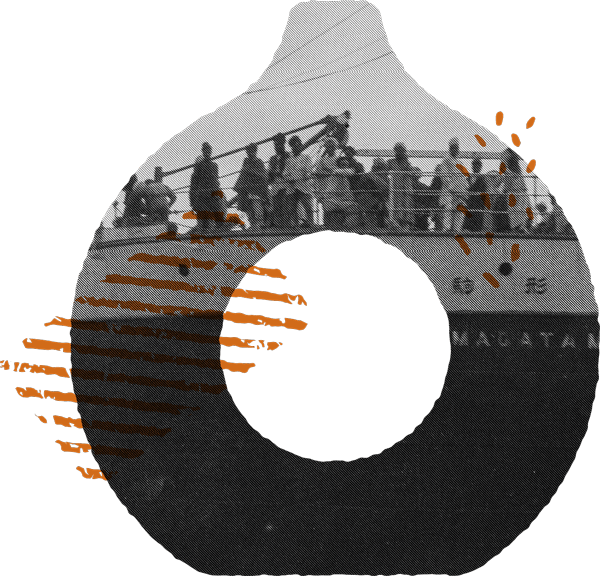
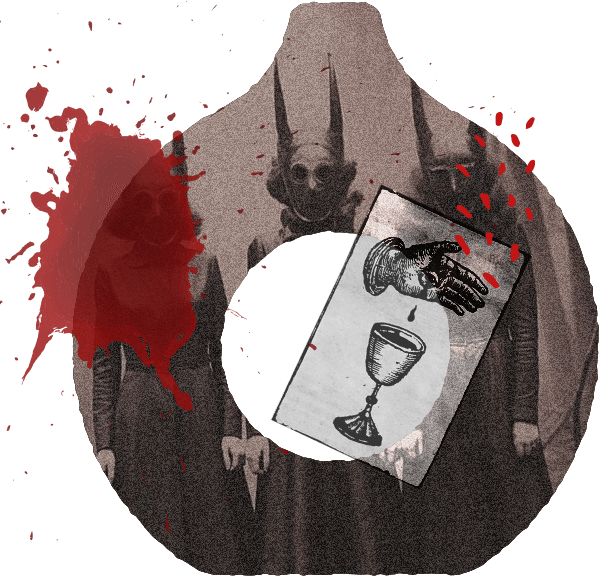
hotfix: update assets

diff --git a/tailwind.config.js b/tailwind.config.js
@@ -34,7 +34,7 @@ module.exports = {
         }
       },
       backgroundImage: {
-        modal: "linear-gradient(rgba(0, 0, 0, 0.89), rgba(0, 0, 0, 0.89)), url('/modal-waves.webp')",
+        modal: "linear-gradient(rgba(0, 0, 0, 0.89), rgba(0, 0, 0, 0.89)), url('/blood-bg.webp')",
         'comming-soon': "url('/coming-soon-bg.jpeg')",
         'logo-gradient-radial': 'radial-gradient(41.82% 41.82% at 50% 50%, rgba(0, 0, 0, 0.5) 55.9%, rgba(0, 0, 0, 0) 100%), linear-gradient(180deg, rgba(0, 0, 0, 0.5) 0%, rgba(0, 0, 0, 0) 21.04%)',
         'promotion-gradient': 'linear-gradient(90deg, rgba(0, 0, 0, 0.8) 0%, rgba(0, 0, 0, 0) 50%)',
